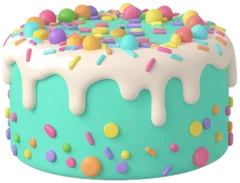
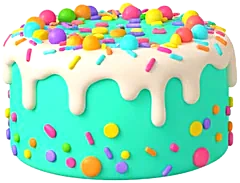
v303: brighter, glossier cake pictures and button; test-mode demo of the out-of-hearts screen

diff --git a/app.js b/app.js
@@ -245,6 +245,13 @@
       if (ni === 0) { S.fanfare && S.fanfare(); } else if (up) S.praise && S.praise(1);
     }, 550 + 1000));
   }
+  // ?dbg=1&demo=lose : level 12 with a two-layer cake and 100 coins, lost on purpose, so the out-of-hearts screen can be seen (test mode only)
+  if (location.search.includes('dbg') && location.search.includes('demo=lose')) setTimeout(() => {
+    const sp = $('splash'); if (sp) sp.remove(); document.querySelectorAll('.intro,.overlay').forEach((e) => { e.hidden = true; });
+    store.set('seenIntro', true); store.set('seenCoach', true); store.set('seenHow', true); if (store.get('age', null) == null) store.set('age', { y: 1990, kid: false, at: Date.now() }); bonus = { last: today(), streak: 1 }; store.set('bonus', bonus); if (level < 12) { level = 12; store.set('level', 12); }
+    setCake(2); coins = Math.max(coins, 100); saveWallet(); updateHintUi(); store.set('game', null);
+    transition(() => startLevel(12)).then(() => setTimeout(() => { let k = 9; while (cur && !cur.done && k--) mistake(0, 0); }, 2500));
+  }, 2500);
   // ?dbg=1&demo=bonus : the nine-card daily bonus again and again (a demonstration, test mode only)
   if (location.search.includes('dbg') && location.search.includes('demo=bonus')) setTimeout(() => {
     const sp = $('splash'); if (sp) sp.remove(); document.querySelectorAll('.intro,.overlay').forEach((e) => { e.hidden = true; });
@@ -695,7 +702,7 @@
   let cakeAnim = '';   // 'up' or 'down': played on the map button the next time the map is on the screen
   function setCake(n) { const was = cake.n; cake.n = Math.max(0, Math.min(CAKE_MAX, n)); if (cake.n !== was) cakeAnim = cake.n > was ? 'up' : 'down'; store.set('cake', cake); updateCakeMeds(); }
   function updateCakeMeds() {
-    const fill = document.querySelector('#medCake .cfill'); if (fill) { fill.hidden = !cake.n || !cakeOpen(); if (cake.n) fill.src = 'art/cake_stage_' + cake.n + '.webp'; }
+    const fill = document.querySelector('#medCake .cfill'); if (fill) { fill.hidden = !cake.n || !cakeOpen(); if (cake.n) fill.src = 'art/cake_stage_' + cake.n + '.webp?2'; }
     const mc = $('medCake'); if (mc) mc.classList.toggle('locked', !cakeOpen());
     const t = $('medCakeTag'); if (t) t.textContent = !cakeOpen() ? '🔒 Lv ' + CAKE_FROM : cake.n ? cake.n + '/' + CAKE_MAX + ' · ×' + (cake.n + 1) : '0/' + CAKE_MAX;
     const s = $('medStarTag'); if (s) s.textContent = sugar.n + '/' + SUGAR_AT;
@@ -723,7 +730,7 @@
       const glow = document.createElement('i'); glow.className = 'cake-glow'; st.appendChild(glow);
       const box = document.createElement('div'); box.className = 'cake-box'; st.appendChild(box);
       // cake_stage_1..3 are the same cake at the same scale, bottom layers exactly on top of each other: only the new top layer moves
-      const img = (k) => { const e = document.createElement('img'); e.src = 'art/cake_stage_' + k + '.webp'; e.alt = ''; e.draggable = false; box.appendChild(e); return e; };
+      const img = (k) => { const e = document.createElement('img'); e.src = 'art/cake_stage_' + k + '.webp?2'; e.alt = ''; e.draggable = false; box.appendChild(e); return e; };
       const HIGH = { 1: 0.485, 2: 0.655 };   // how much of the picture the cake below takes, from the bottom
       const old = n > 1 ? img(n - 1) : null, nu = img(n);
       if (old) nu.style.clipPath = 'inset(0 0 ' + (HIGH[n - 1] * 92).toFixed(1) + '% 0)';   // while it falls, the new picture shows only its top layer
@@ -778,7 +785,7 @@
       b.innerHTML = '<p class="ci-from">Opens at level ' + CAKE_FROM + '</p><p>From level ' + CAKE_FROM + ' on, every new level you win in a row adds a layer to your cake (up to 3).</p>'
         + '<p>Each layer helps you on the next level: candies already in the right place on the board, and more points. Lose a level and the top layer falls off.</p>'
         + '<p class="ci-sub">What your cake gives you at the start of a level:</p>'
-        + [3, 2, 1].map((n) => '<div class="ci-row' + (cake.n === n ? ' on' : '') + '"><img src="art/3d_cake_' + n + '.webp" alt="" draggable="false"><span><b>' + ['1 layer', '2 layers', '3 layers'][n - 1] + '</b><small>'
+        + [3, 2, 1].map((n) => '<div class="ci-row' + (cake.n === n ? ' on' : '') + '"><img src="art/3d_cake_' + n + '.webp?2" alt="" draggable="false"><span><b>' + ['1 layer', '2 layers', '3 layers'][n - 1] + '</b><small>'
           + ['1 candy already in place', '2 candies already in place', '3 candies in place + a heart shield'][n - 1] + '</small></span><i>' + ['Points ×2', 'Points ×3', 'Points ×4'][n - 1] + '</i></div>').join('')
         + '<p class="ci-tip">☀ <span>Your first win of each day pays double coins!</span></p>';
     } else {
@@ -1573,14 +1580,14 @@
     if (earnedCoins) setTimeout(() => flyCoins($('winCoins'), earnedCoins, 0), fumed ? 3250 : 1400);
     $('winCoins').hidden = false; $('winCoins').innerHTML = '+' + earnedCoins + ' ' + coinSvg + ' coins' + (firstWin ? '<small class="fwin">☀ First win today ×2</small>' : '');
     if (!earnedCoins) $('winCoins').hidden = true;
-    $('winGain').innerHTML = '+' + pt.gain + ' pts<small>' + '×' + pt.mult + ' in a row · ' + score.points + ' today</small>' + (cur.cake ? '<small class="wcake"><img src="art/3d_cake_' + cur.cake + '.webp" alt="" draggable="false">Cake ×' + (cur.cake + 1) + '</small>' : '');
+    $('winGain').innerHTML = '+' + pt.gain + ' pts<small>' + '×' + pt.mult + ' in a row · ' + score.points + ' today</small>' + (cur.cake ? '<small class="wcake"><img src="art/3d_cake_' + cur.cake + '.webp?2" alt="" draggable="false">Cake ×' + (cur.cake + 1) + '</small>' : '');
     $('winGain').hidden = chal;   // no points line for the Daily Challenge
     if (m.kind === 'level') {
       if (isBossLv(m.level)) merge = [];
       if (!stars[m.level] || stars[m.level] < earned) { stars[m.level] = earned; store.set('stars', stars); }
       if (level === m.level) {
         level = m.level + 1; store.set('level', level); pendingHop = level > LAST_LEVEL ? null : { from: m.level, to: level };
-        if (m.level >= CAKE_FROM) setCake(cake.n + 1); if (m.level >= CAKE_FROM) $('winGain').insertAdjacentHTML('beforeend', '<small class="wcake new"><img src="art/3d_cake_' + cake.n + '.webp" alt="" draggable="false">' + (cake.n >= CAKE_MAX ? 'Cake complete!' : 'New cake layer!') + '</small>');
+        if (m.level >= CAKE_FROM) setCake(cake.n + 1); if (m.level >= CAKE_FROM) $('winGain').insertAdjacentHTML('beforeend', '<small class="wcake new"><img src="art/3d_cake_' + cake.n + '.webp?2" alt="" draggable="false">' + (cake.n >= CAKE_MAX ? 'Cake complete!' : 'New cake layer!') + '</small>');
         if (cur.hearts >= MAX_HEARTS) {
           sugar.n++; if (sugar.n >= SUGAR_AT) { sugar.n = 0; const sp = chestLoot('med'); give(sp); soon(() => announce(sp, 'Sugar Stars complete!', true), 4800); }
           store.set('sugar', sugar); updateCakeMeds();

diff --git a/sw.js b/sw.js
@@ -1,5 +1,5 @@
 /* Candoku service worker: cache the app shell so it works offline. Bump VERSION on each release. */
-const VERSION = 'candoku-v302';
+const VERSION = 'candoku-v303';
 const FILES = ['./', 'index.html', 'style.css', 'engine.js', 'hints.js', 'boardworker.js', 'seeds.js', 'sound.js', 'music.js', 'voice.js', 'app.js', 'manifest.webmanifest', 'icon-192.png', 'icon-180.png', 'icon-192.png', 'icon-512.png', 'icon-maskable-512.png', 'icons/lollipop.png', 'icons/candy.png', 'icons/chocolate_bar.png', 'icons/doughnut.png', 'icons/cupcake.png', 'icons/cookie.png', 'icons/cherries.png', 'icons/soft_ice_cream.png', 'icons/shortcake.png', 'icons/dango.png', 'art/bg_0.jpg', 'art/bg_1.jpg', 'art/bg_2.jpg', 'art/bg_3.jpg', 'art/bg_4.jpg', 'art/bg_5.jpg', 'art/bg_6.jpg', 'art/bg_7.jpg', 'art/bg_8.jpg', 'art/ic_undo.webp', 'art/ic_hint.webp', 'art/ic_wand.webp', 'art/ic_maybe.webp', 'art/ic_restart.webp', 'art/ic_coin.webp', 'art/ic_chest.webp', 'art/ic_wheel.webp', 'art/ic_games.webp', 'art/nav_gifts.webp', 'art/nav_quests.webp', 'art/nav_home.webp', 'art/nav_shop.webp', 'art/nav_rank.webp', 'art/ic_heart.webp', 'art/ic_heart_off.webp', 'art/cd_lollipop.webp', 'art/cd_candy.webp', 'art/cd_chocolate_bar.webp', 'art/cd_doughnut.webp', 'art/cd_cupcake.webp', 'art/cd_cookie.webp', 'art/cd_cherries.webp', 'art/cd_soft_ice_cream.webp', 'art/cd_shortcake.webp', 'art/cd_dango.webp', 'art/tool_undo.webp', 'art/tool_hint.webp', 'art/tool_wand.webp', 'art/tool_maybe.webp', 'art/tool_maybe_green.webp', 'art/tool_restart.webp', 'art/ribbon.webp', 'art/ribbon_teal.webp', 'art/panel_blue.webp', 'art/ic_shield.webp', 'art/ic_double.webp', 'art/ic_sweeper.webp', 'art/ic_lens.webp', 'audio/voice/reward1.mp3', 'audio/voice/reward2.mp3', 'audio/voice/reward3.mp3', 'audio/voice/bigreward.mp3', 'audio/voice/wandget.mp3', 'art/gumi_pirate.webp', 'art/gumi_astronaut.webp', 'art/gumi_chef.webp', 'art/gumi_ninja.webp', 'art/btn_green.webp', 'art/btn_orange.webp', 'art/btn_blue.webp', 'art/logo.webp', 'art/ribbon_0.webp', 'art/ribbon_1.webp', 'art/ribbon_2.webp', 'art/ribbon_3.webp', 'art/ribbon_4.webp', 'art/ribbon_5.webp', 'art/ribbon_6.webp', 'art/ribbon_7.webp', 'art/ribbon_8.webp', 'art/ribbon_9.webp', 'art/gumi_win.webp', 'art/gumi_jump.webp', 'art/shoot_bg.jpg', 'art/cart_bg2.jpg', 'art/shoot_cannon.webp', 'art/shoot_ball.webp', 'art/shoot_ball_y.webp', 'art/shoot_ball_b.webp', 'art/shoot_ball_g.webp', 'art/shoot_hole.webp', 'art/cart_rock.webp', 'art/cart_bear2.webp', 'art/cart_rival2.webp',  'art/hoop_machine.jpg', 'art/hoop_ring.webp', 'art/hoop_ball_g.webp', 'art/hoop_ball_r.webp', 'art/climb_plat.webp', 'art/ev_climb.webp', 'art/ui_btn_icon.webp', 'art/ui_pill_dark.webp', 'art/ui_pill_cream.webp', 'art/node_blue.webp', 'art/node_hard.webp', 'art/node_vhard.webp', 'art/node_extreme.webp', 'art/node_lock.webp', 'art/ev_shooter.webp', 'art/ev_hoop.webp', 'art/ev_cart.webp', 'art/ev_pass.webp', 'art/ev_rush.webp', 'art/ev_memory.webp', 'art/ev_toss.webp', 'art/ev_odd.webp', 'art/ev_jars.webp',  'art/3d_qcard.webp', 'art/3d_chest_small.webp', 'art/3d_chest_med.webp', 'art/3d_chest_large.webp', 'art/gumi_pirate_stand.webp', 'art/gumi_pirate_win.webp', 'art/gumi_cowboy_stand.webp', 'art/gumi_cowboy_win.webp', 'art/gumi_wizard_stand.webp', 'art/gumi_wizard_win.webp', 'art/gumi_king_stand.webp', 'art/gumi_king_win.webp', 'art/gumi_ninja_stand.webp', 'art/gumi_ninja_win.webp',  'art/gumi_chef_stand.webp', 'art/gumi_chef_win.webp', 'art/gumi_fire_stand.webp', 'art/gumi_fire_win.webp', 'art/gumi_blink.webp', 'art/gumi_sad.webp', 'art/tool_restart_red.webp', 'art/wheel_ring.webp', 'art/wheel_hub.webp', 'art/wheel_pointer.webp', 'art/tool_sweeper.webp', 'art/tool_lens.webp', 'art/gumi.webp', 'art/gumi_hero.webp', 'art/star_gold.webp', 'art/star_grey.webp', 'art/gumi_blue.webp', 'art/gumi_red.webp', 'art/panel.webp', 'audio/sfx/n0.mp3', 'audio/sfx/n1.mp3', 'audio/sfx/n2.mp3', 'audio/sfx/n3.mp3', 'audio/sfx/n4.mp3', 'audio/sfx/n5.mp3', 'audio/sfx/n6.mp3', 'audio/sfx/n7.mp3', 'audio/sfx/n8.mp3', 'audio/sfx/fanfare.mp3', 'audio/sfx/stars.mp3', 'audio/music/w4.mp3', 'audio/music/w5.mp3', 'audio/music/w6.mp3', 'audio/music/w7.mp3', 'audio/music/w8.mp3', 'audio/music/menu.mp3', 'audio/music/w0.mp3', 'audio/music/w1.mp3', 'audio/music/w2.mp3', 'audio/music/w3.mp3', 'audio/voice/close.mp3', 'audio/voice/delicious.mp3', 'audio/voice/divine.mp3', 'audio/voice/first.mp3', 'audio/voice/go.mp3', 'audio/voice/hard.mp3', 'audio/voice/intro1.mp3', 'audio/voice/intro2.mp3', 'audio/voice/intro3.mp3', 'audio/voice/letsplay.mp3', 'audio/voice/lose.mp3', 'audio/voice/nice.mp3', 'audio/voice/perfect.mp3', 'audio/voice/ready.mp3', 'audio/voice/sugartastic.mp3', 'audio/voice/tasty.mp3', 'audio/voice/veryhard.mp3', 'audio/voice/extremehard.mp3', 'audio/voice/verytasty.mp3', 'audio/voice/welcome.mp3', 'audio/voice/yummy.mp3', 'audio/voice/es/mmmsweet.mp3', 'audio/voice/es/sugarrush.mp3', 'audio/voice/es/candylicious.mp3', 'audio/voice/es/sosweet.mp3', 'audio/voice/es/bontastic.mp3', 'audio/voice/es/treattastic.mp3', 'audio/voice/es/whatatreat.mp3', 'audio/voice/es/f/first.mp3', 'audio/voice/es/f/yummy.mp3', 'audio/voice/es/f/tasty.mp3', 'audio/voice/es/f/nice.mp3', 'audio/voice/es/f/delicious.mp3', 'audio/voice/es/f/verytasty.mp3', 'audio/voice/es/f/mmmsweet.mp3', 'audio/voice/es/f/sugarrush.mp3', 'audio/voice/es/f/candylicious.mp3', 'audio/voice/es/f/sosweet.mp3', 'audio/voice/es/f/bontastic.mp3', 'audio/voice/es/f/treattastic.mp3', 'audio/voice/es/f/whatatreat.mp3', 'audio/voice/f/first.mp3', 'audio/voice/f/yummy.mp3', 'audio/voice/f/tasty.mp3', 'audio/voice/f/nice.mp3', 'audio/voice/f/delicious.mp3', 'audio/voice/f/verytasty.mp3', 'audio/voice/f/mmmsweet.mp3', 'audio/voice/f/sugarrush.mp3', 'audio/voice/f/candylicious.mp3', 'audio/voice/f/sosweet.mp3', 'audio/voice/f/bontastic.mp3', 'audio/voice/f/treattastic.mp3', 'audio/voice/f/whatatreat.mp3', 'audio/voice/whatatreat.mp3', 'audio/voice/mmmsweet.mp3', 'audio/voice/sugarrush.mp3', 'audio/voice/candylicious.mp3', 'audio/voice/sosweet.mp3', 'audio/voice/gumtastic.mp3', 'audio/voice/bontastic.mp3', 'audio/voice/treattastic.mp3', 'art/3d_cake_1.webp', 'art/3d_cake_2.webp', 'art/3d_cake_3.webp', 'art/cake_stage_1.webp', 'art/cake_stage_2.webp', 'art/cake_stage_3.webp', 'art/ic_sugarstar.webp', 'audio/voice/z0.mp3', 'audio/voice/z1.mp3', 'audio/voice/z2.mp3', 'audio/voice/z3.mp3', 'audio/voice/z4.mp3', 'audio/voice/z5.mp3', 'audio/voice/z6.mp3', 'audio/voice/z7.mp3', 'audio/voice/z8.mp3'];
 const CORE = ['./', 'index.html', 'manifest.webmanifest', 'art/splash_4k.jpg', 'art/logo_bonbox_hd.webp'];
 self.addEventListener('install', (e) => {

diff --git a/index.html b/index.html
@@ -14,7 +14,7 @@
 <link rel="apple-touch-icon" href="icon-180.png?v=85">
 <link rel="preconnect" href="https://fonts.googleapis.com"><link rel="preconnect" href="https://fonts.gstatic.com" crossorigin>
 <link rel="stylesheet" href="https://fonts.googleapis.com/css2?family=Nunito:wght@700;800;900&display=swap" media="print" onload="this.media='all'">
-<link rel="stylesheet" href="style.css?v=302">
+<link rel="stylesheet" href="style.css?v=303">
 <link rel="preload" as="image" href="art/splash_4k.jpg?b2"><link rel="preload" as="image" href="art/logo_bonbox_hd.webp">
 <style>
[1 lines of base64/hex data omitted]
@@ -171,7 +171,7 @@
     <div class="col l">
       <button class="med" id="medDaily" type="button"><span class="disc"><svg><use href="#c3"/></svg></span><span class="tag" id="medDailyTag">⏱ Play</span></button>
       <button class="med" id="medWheel" type="button"><span class="disc"><img loading="lazy" decoding="async" class="" src="art/ic_wheel.webp" alt="" draggable="false"></span><span class="tag" id="medWheelTag">FREE</span></button>
-      <button class="med fancy cake" id="medCake" type="button" aria-label="Gumi's Cake"><span class="disc"><span class="cakeico"><img class="cghost" decoding="async" src="art/cake_stage_3.webp" alt="" draggable="false"><img class="cfill" decoding="async" src="art/cake_stage_1.webp" alt="" draggable="false" hidden></span></span><span class="tag" id="medCakeTag">0/3</span></button>
+      <button class="med fancy cake" id="medCake" type="button" aria-label="Gumi's Cake"><span class="disc"><span class="cakeico"><img class="cghost" decoding="async" src="art/cake_stage_3.webp?2" alt="" draggable="false"><img class="cfill" decoding="async" src="art/cake_stage_1.webp?2" alt="" draggable="false" hidden></span></span><span class="tag" id="medCakeTag">0/3</span></button>
       <button class="med" id="medClimb" type="button" aria-label="Candy Climb"><span class="disc"><img decoding="async" src="art/ev_climb.webp" alt="" draggable="false"></span><span class="tag" id="medClimbTag">START</span></button>
     </div>
     <div class="col r">
@@ -207,7 +207,7 @@
     <button class="btn" id="maybeBtn" type="button" aria-pressed="false" aria-label="Maybe" title="Maybe"><img loading="lazy" decoding="async" class="tico" src="art/tool_maybe.webp" alt="" draggable="false"></button>
     <button class="btn" id="clearBtn" type="button" aria-label="Restart" title="Restart"><img loading="lazy" decoding="async" class="tico" src="art/tool_restart_red.webp" alt="" draggable="false"></button>
   </div>
-  <p class="help">Tap: X (tap again to remove). Double tap: candy. Hold a square or use Maybe to mark a ? <span class="ver">v302</span></p>
+  <p class="help">Tap: X (tap again to remove). Double tap: candy. Hold a square or use Maybe to mark a ? <span class="ver">v303</span></p>
 </main>
 
 <!-- WIN -->
@@ -622,13 +622,13 @@
   <button type="button" id="navShop"><img loading="lazy" decoding="async" class="navico" src="art/nav_shop.webp" alt="" draggable="false"><span>Shop</span></button>
   <button type="button" id="navRank"><img loading="lazy" decoding="async" class="navico" src="art/nav_rank.webp" alt="" draggable="false"><span>Ranking</span></button>
 </nav>
-<script src="i18n.js?v=302"></script>
-<script src="engine.js?v=302"></script>
-<script src="hints.js?v=302"></script>
-<script src="seeds.js?v=302"></script>
-<script src="sound.js?v=302"></script>
-<script src="music.js?v=302"></script>
-<script src="voice.js?v=302"></script>
-<script src="app.js?v=302"></script>
+<script src="i18n.js?v=303"></script>
+<script src="engine.js?v=303"></script>
+<script src="hints.js?v=303"></script>
+<script src="seeds.js?v=303"></script>
+<script src="sound.js?v=303"></script>
+<script src="music.js?v=303"></script>
+<script src="voice.js?v=303"></script>
+<script src="app.js?v=303"></script>
 </body>
 </html>

diff --git a/style.css b/style.css
@@ -2174,10 +2174,10 @@ body.noads #shopFree,body.noads #shopAds,body.noads .shoph.adsonly,body.noads #l
   box-shadow:0 0 0 1px rgba(120,0,0,.5),0 0 8px 2px rgba(255,60,30,.75),0 2px 3px rgba(0,0,0,.45)!important}
 .bcard .back.k-life{background:radial-gradient(circle at 50% 30%,#ffe3e6,#ff8a99 55%,#e2344f)!important}
 /* Gumi's Cake button: the full three-layer cake is always there; the layers not won yet are grey, the won ones in colour */
-#medCake .cakeico{position:relative;width:33px;height:44px;margin-top:-3px;display:block}
+#medCake .cakeico{position:relative;width:36px;height:48px;margin-top:-5px;display:block}
 #medCake .cakeico img{position:absolute;left:0;bottom:0;width:100%!important;height:auto!important;object-fit:contain}
-#medCake .cakeico .cghost{filter:grayscale(.85) brightness(1.08) contrast(1.15) opacity(.85)}
-#medCake .cakeico .cfill{filter:saturate(1.35) contrast(1.08) brightness(1.05) drop-shadow(0 1px 1px rgba(0,0,0,.3))}
+#medCake .cakeico .cghost{filter:saturate(.55) brightness(1.1) opacity(.42)}
+#medCake .cakeico .cfill{filter:saturate(1.15) drop-shadow(0 0 2px rgba(255,255,255,.9)) drop-shadow(0 1px 2px rgba(80,0,60,.45))}
 #medCake.locked .cakeico .cghost{filter:grayscale(1) brightness(.9) opacity(.6)}
 #medCake .disc{position:relative}
 /* the cake button has its own candy-pink inside (the ring stays like every other button) */
@@ -2187,7 +2187,7 @@ body.noads #shopFree,body.noads #shopAds,body.noads .shoph.adsonly,body.noads #l
 /* every Continue button is green */
 #leagueGo,#lgrGo:not(.claim),#ageGo{background:url(art/btn_green.webp) center/100% 100% no-repeat!important;filter:drop-shadow(0 5px 3px rgba(0,40,0,.5))!important}
 /* a little shine on the cake button: a soft gloss and a twinkle */
-#medCake .cakeico::after{content:"";position:absolute;inset:0;pointer-events:none;background:linear-gradient(115deg,rgba(255,255,255,0) 30%,rgba(255,255,255,.55) 45%,rgba(255,255,255,0) 60%);mix-blend-mode:soft-light;-webkit-mask:url(art/cake_stage_3.webp) center bottom/100% auto no-repeat;mask:url(art/cake_stage_3.webp) center bottom/100% auto no-repeat}
+#medCake .cakeico::after{content:"";position:absolute;inset:0;pointer-events:none;background:linear-gradient(115deg,rgba(255,255,255,0) 30%,rgba(255,255,255,.55) 45%,rgba(255,255,255,0) 60%);mix-blend-mode:soft-light;-webkit-mask:url(art/cake_stage_3.webp?2) center bottom/100% auto no-repeat;mask:url(art/cake_stage_3.webp?2) center bottom/100% auto no-repeat}
 #medCake .disc::before{content:"º6";position:absolute;right:7px;top:5px;z-index:3;font-size:11px;line-height:1;color:#fff;text-shadow:0 0 4px #fff,0 0 8px #ffd84a;animation:cakeTwinkle 2.4s ease-in-out infinite;pointer-events:none}
 #medCake.locked .disc::before{display:none}
 @keyframes cakeTwinkle{0%,100%{opacity:.15;transform:scale(.6)}50%{opacity:1;transform:scale(1.15)}}
